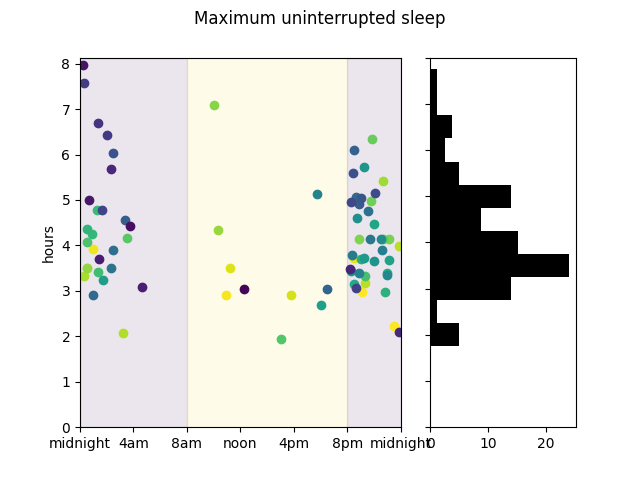
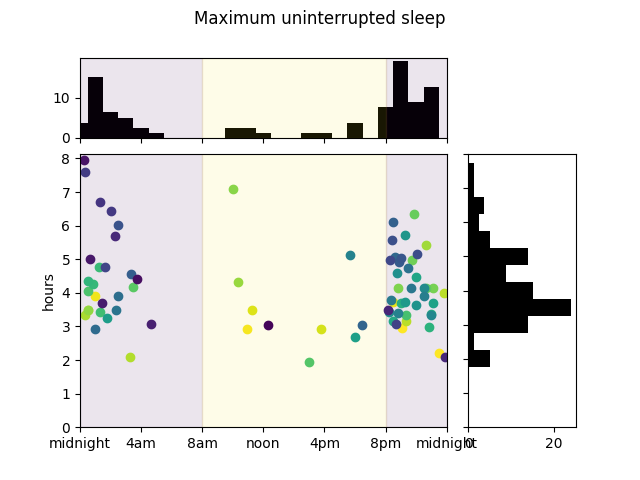
added histogram of duration of max uninterrupted sleep

diff --git a/datita.py b/datita.py
@@ -261,7 +261,7 @@ def write_date_tick_labels(date_tick_labels, the_datetime, week=None, month=None
         date_tick_labels.append(week)
     elif label_type == 'month':
         date_tick_labels.append(month)
-        
+
     return date_tick_labels
 
 
@@ -288,14 +288,14 @@ def date_ticks(data, label_type):
 
     date_tick_labels = []
     date_tick_labels = write_date_tick_labels(date_tick_labels, date_ticks[0], week=starting_week, month=starting_month)
- 
+
     for i in range(100):
         if date_ticks[-1] + unit_increment <= data[-1][0].date():
             new_date = date_ticks[-1] + unit_increment
             date_ticks.append(new_date)
 
             date_tick_labels = write_date_tick_labels(date_tick_labels, new_date, week = starting_week + i + 1, month = starting_month + i + 1)
-            
+
     new_date = date_ticks[-1] + unit_increment
     date_ticks.append(new_date)
     date_tick_labels = write_date_tick_labels(date_tick_labels, new_date, week = date_tick_labels[-1] + 1, month = date_tick_labels[-1] + 1)
@@ -383,28 +383,35 @@ def plot_sleep(data_sleep, n_days_sleep):
         else: 
             max_sleep.append(data_sleep[i])
 
-    plt.subplot2grid((3,3), (0,0), colspan=2, rowspan=3)
+    plt.subplot2grid((4,4), (1,0), colspan=3, rowspan=3)
     time_ticks('x')
     plt.ylabel('hours')
     plt.yticks([0., 60., 120., 180., 240., 300., 360., 420., 480.])
     plt.gca().set_yticklabels([0, 1, 2, 3, 4, 5, 6, 7, 8])
     plt.ylim([0, 488])
     durations = []
+    times = []
     for i in range(len(max_sleep)):
         date = max_sleep[i][0]
         time = parse_time(max_sleep[i][0].time())
         duration = max_sleep[i][1]
+        times.append(time)
         durations.append(duration)
         color = colormap(norm((date - max_sleep[0][0]).days))
         plt.plot(time, duration, 'o', color=color)
 
-
-    plt.subplot2grid((3,3), (0,2), colspan=1, rowspan=3)
+    plt.subplot2grid((4,4), (1,3), colspan=1, rowspan=3)
     plt.ylim([0, 480.])
     plt.yticks([0., 60., 120., 180., 240., 300., 360., 420., 480.])
     plt.gca().set_yticklabels([])
     weights = numpy.ones_like(durations)/len(durations)*100.
     plt.hist(durations, bins=numpy.arange(-15., 495., 30), weights=weights, histtype='stepfilled', color='k', orientation='horizontal')
+
+    plt.subplot2grid((4,4), (0,0), colspan=3, rowspan=1)
+    weights = numpy.ones_like(times)/len(times)*100.
+    plt.hist(times, bins=numpy.arange(-0.5, 24.5, 1.), weights=weights, histtype='stepfilled', color='k')
+    time_ticks('x')
+    plt.gca().set_xticklabels([])
 
     plt.savefig('sleep_max.png')
 
